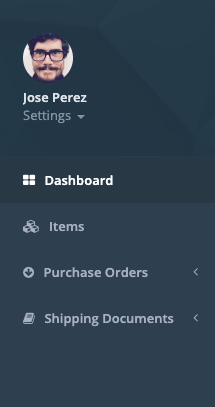
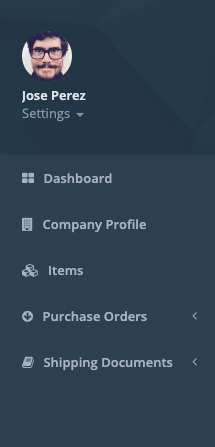
GitBook: [master] 5 pages and 9 assets modified

diff --git a/vendors/tutorials/untitled-2.md b/vendors/tutorials/untitled-2.md
@@ -1,0 +1,62 @@
+# Company Profile
+
+## Profile
+
+This tab includes some basic information about your company like Address, contact person, Purchase Trend, Purchase Orders Processes in the last 36 months and Purchases in the last 5 years.
+
+![](../../.gitbook/assets/screen-shot-2019-05-03-at-4.36.26-pm.png)
+
+## Open Purchases
+
+Open Purchase are Purchase Orders which has been issued to a vendor, against which specified purchases may be made for a specified period of time. The list is a detailed lists containing:
+
+* Purchase Orders
+* Purchase Order Date
+* Days Open
+* FOB
+* etc.
+
+## Purchases History
+
+Purchases History tab contain detailed purchases data for a specified number of months \(Period\) and years.
+
+### Grouping / Aggregation:
+
+The Grid allows the user to group the data by specific columns. To group the data, drag the desire column header to the row group area.
+
+![](../../.gitbook/assets/screen-shot-2019-05-03-at-8.43.22-pm.png)
+
+Alternatively, you can group by dragging a column from the tool panel to the tool panel row group area.
+
+![](../../.gitbook/assets/screen-shot-2019-05-03-at-8.44.52-pm.png)
+
+Once grouped, you can display aggregation values for given column. To aggregate a given column, drag a column to the aggregation area.
+
+You can also select a value aggregation function for a given column from the tool panel or the column menu.
+
+![](../../.gitbook/assets/screen-shot-2019-04-08-at-3.29.09-pm.png)
+
+### Filtering:
+
+The Grid comes with an extensive set of built-in column filter types. The floating filter row provides quick access to the User Interface \(UI\).
+
+![](../../.gitbook/assets/screen-shot-2019-04-08-at-3.30.38-pm.png)
+
+An additional UI for filtering is provided in the column menu. Hover the column, press the hamburger icon, then select the second tab.
+
+![](../../.gitbook/assets/screen-shot-2019-04-08-at-3.33.11-pm.png)
+
+![](../../.gitbook/assets/screen-shot-2019-04-08-at-3.34.52-pm.png)
+
+{% hint style="info" %}
+Grouping and Filtering also apply for the others tables.
+{% endhint %}
+
+## Items
+
+The Items tab contains a list of items associate to the vendor, it also include the vendor's item number \(or item code\).
+
+## Documents
+
+The Documents tab contains a list of AP invoices, credit notes, debit notes, receipts \(including prepayments, and miscellaneous receipts\), and refunds which have been processed.
+

diff --git a/vendors/tutorials/untitled.md b/vendors/tutorials/untitled.md
@@ -1,0 +1,12 @@
+# User Profile
+
+## Updating your profile  <a id="updating-your-profile"></a>
+
+You can update you profile from the main menu by clicking on Settings / Profile.
+
+![](../../.gitbook/assets/screen-shot-2019-05-03-at-3.25.12-pm.png)
+
+You can update your name, email, company, country, password and also see you activity stream. If you want to change your avatar, you create an account a [Gravatar](https://en.gravatar.com/) account with your email and your avatar will change automatically.
+
+![](../../.gitbook/assets/screen-shot-2019-04-05-at-4.48.20-pm.png)
+

diff --git a/vendors/tutorials/purchase-orders.md b/vendors/tutorials/purchase-orders.md
@@ -1,0 +1,22 @@
+# Purchase Orders
+
+## Order Listing
+
+![](../../.gitbook/assets/screen-shot-2019-05-03-at-3.33.22-pm.png)
+
+## Purchase Order Detail
+
+![](../../.gitbook/assets/screen-shot-2019-05-03-at-3.36.47-pm.png)
+
+### Timeline
+
+Notice the `Timeline` link below your company information, this link will open a sidebar with the timeline of requests and submit documents related with the Purchase Order.
+
+![](../../.gitbook/assets/screen-shot-2019-05-03-at-3.45.50-pm.png)
+
+## Search
+
+![](../../.gitbook/assets/screen-shot-2019-05-03-at-3.46.19-pm.png)
+
+
+

diff --git a/SUMMARY.md b/SUMMARY.md
@@ -15,4 +15,8 @@
 ## Vendors
 
 * [Quick Start](vendors/quick-start.md)
+* [Tutorials](vendors/tutorials/README.md)
+  * [User Profile](vendors/tutorials/untitled.md)
+  * [Purchase Orders](vendors/tutorials/purchase-orders.md)
+  * [Company Profile](vendors/tutorials/untitled-2.md)
 

diff --git a/vendors/tutorials/README.md b/vendors/tutorials/README.md
@@ -1,0 +1,4 @@
+# Tutorials
+
+This step-by-step guide provides all you need to know to be an active user in our application.
+
